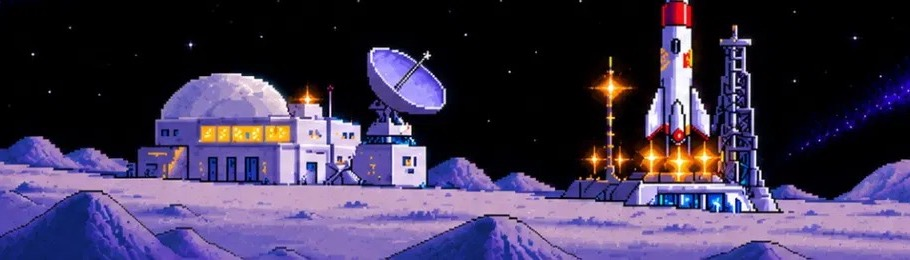
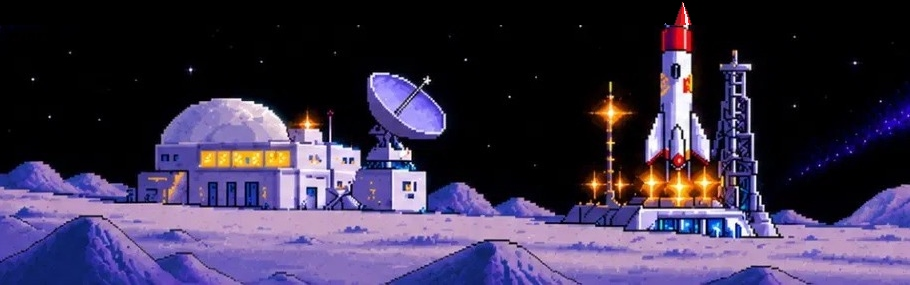
fix(dashboard): restore rocket tip and balance symmetrical space ambient lighting

diff --git a/mission-architect/apps/web/src/styles/ui.css b/mission-architect/apps/web/src/styles/ui.css
@@ -7,9 +7,10 @@ body{font-family:'IBM Plex Sans',system-ui,sans-serif;color:var(--ink)}
 .viewport{position:fixed;inset:0;display:grid;place-items:center;background:#000}
 .stage{position:absolute;left:50%;top:50%;width:1456px;height:820px;transform-origin:center;overflow:hidden;
   background:
-   linear-gradient(115deg,transparent 30%,rgba(70,40,200,.35) 45%,transparent 60%),
-   linear-gradient(60deg,transparent 55%,rgba(80,50,220,.3) 70%,transparent 82%),
-   radial-gradient(ellipse at 10% 25%,rgba(80,40,190,.35),transparent 40%),#02020a}
+    radial-gradient(ellipse at 12% 28%, rgba(70,35,180,.3), transparent 38%),
+    radial-gradient(ellipse at 88% 28%, rgba(70,35,180,.3), transparent 38%),
+    radial-gradient(ellipse at 50% 18%, rgba(50,30,140,.25), transparent 48%),
+    #010108}
 .stars{position:absolute;inset:0;background-image:
   radial-gradient(2px 2px at 10% 20%,#fff,transparent),radial-gradient(1.5px 1.5px at 30% 70%,#9cf,transparent),
   radial-gradient(2px 2px at 55% 15%,#fff,transparent),radial-gradient(1.5px 1.5px at 70% 45%,#fff,transparent),
@@ -20,10 +21,10 @@ body{font-family:'IBM Plex Sans',system-ui,sans-serif;color:var(--ink)}
 .abs{position:absolute}
 .mountains{position:absolute;left:0;right:0;bottom:0;height:150px;background:linear-gradient(#8f80e6,#6a5acd 40%,#3d3294);
   clip-path:polygon(0 45%,4% 22%,8% 45%,13% 58%,20% 48%,28% 66%,38% 56%,48% 68%,58% 58%,68% 70%,78% 50%,86% 38%,92% 14%,96% 35%,100% 20%,100% 100%,0 100%)}
-.ground{position:absolute;left:305px;top:560px;width:910px;height:260px;background:url(/assets/backgrounds/ground.jpg) no-repeat;image-rendering:pixelated;
-  -webkit-mask-image:linear-gradient(90deg,transparent,#000 6%,#000 96%,transparent),linear-gradient(180deg,transparent,#000 12%);-webkit-mask-composite:source-in;
-  mask-image:linear-gradient(90deg,transparent,#000 6%,#000 96%,transparent),linear-gradient(180deg,transparent,#000 12%);mask-composite:intersect}
-.ground.small{transform:scale(.8);transform-origin:50% 100%;left:305px}
+.ground{position:absolute;left:273px;top:535px;width:910px;height:285px;background:url(/assets/backgrounds/ground.jpg) no-repeat;image-rendering:pixelated;
+  -webkit-mask-image:linear-gradient(90deg,transparent,#000 6%,#000 94%,transparent);-webkit-mask-composite:source-in;
+  mask-image:linear-gradient(90deg,transparent,#000 6%,#000 94%,transparent);mask-composite:intersect}
+.ground.small{transform:scale(.8);transform-origin:50% 100%;left:273px}
 /* panels */
 .panel{position:absolute;filter:drop-shadow(0 0 7px rgba(43,184,255,.85))}
 .frame{position:absolute;inset:0;background:linear-gradient(#0b1a40,#061030);border:4px solid var(--neon);
@@ -66,11 +67,6 @@ body{font-family:'IBM Plex Sans',system-ui,sans-serif;color:var(--ink)}
 .sprite-title{font-size:30px;white-space:nowrap}
 .cardtitle{position:absolute;top:0;left:0;right:0;padding-top:10px;height:44px}
 .mountains{height:120px;opacity:.95}
-.stage{background:
-  linear-gradient(118deg,transparent 18%,rgba(60,30,190,.45) 30%,transparent 42%),
-  linear-gradient(62deg,transparent 52%,rgba(90,55,230,.4) 66%,transparent 80%),
-  linear-gradient(100deg,transparent 5%,rgba(70,40,200,.3) 14%,transparent 24%),
-  radial-gradient(ellipse at 8% 30%,rgba(70,40,190,.4),transparent 38%),#010108}
 .card.locked .frame{border-color:#2a78c8}
 .card.locked .cardtitle{color:#aeb9d4}
 .home-bubble:after{right:auto;left:26px;bottom:auto;top:-22px;border:12px solid transparent;border-bottom-color:var(--neon);border-top-color:transparent;z-index:3}
@@ -78,7 +74,3 @@ body{font-family:'IBM Plex Sans',system-ui,sans-serif;color:var(--ink)}
 .btn .in{gap:10px;font-size:24px}
 .btn .in .grow{text-align:left;padding-left:4px}
 .btn.gold .in .grow{text-align:center}
-.stage{background:
-  linear-gradient(118deg,transparent 16%,rgba(60,30,190,.4) 26%,transparent 36%),
-  linear-gradient(62deg,transparent 56%,rgba(90,55,230,.4) 68%,transparent 80%),
-  radial-gradient(ellipse at 6% 30%,rgba(70,40,190,.35),transparent 30%),#010108}
